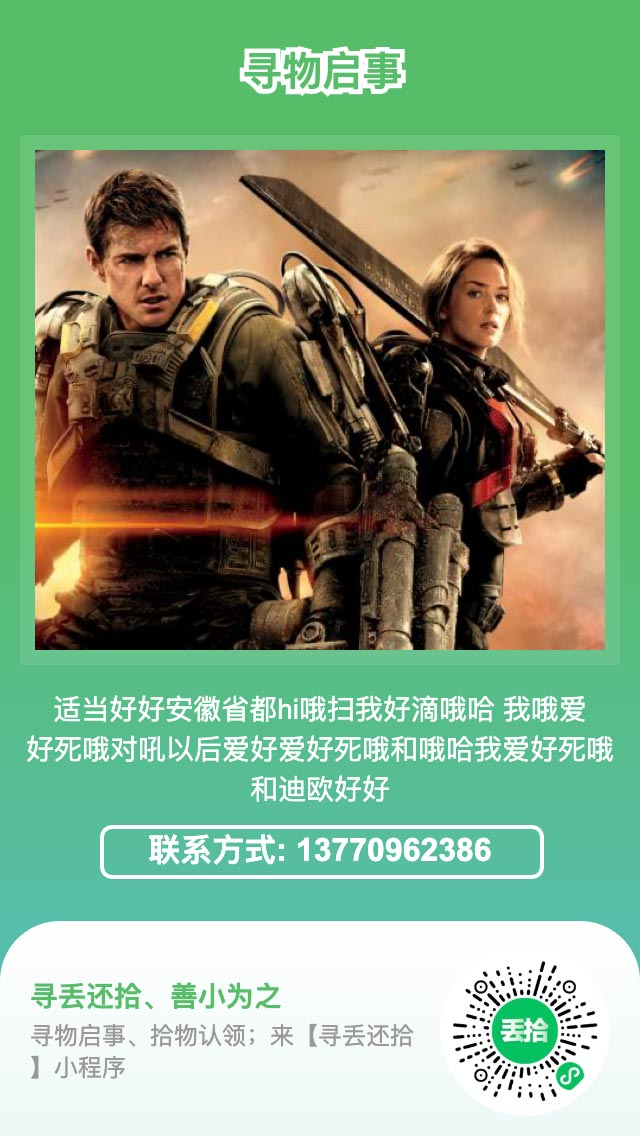
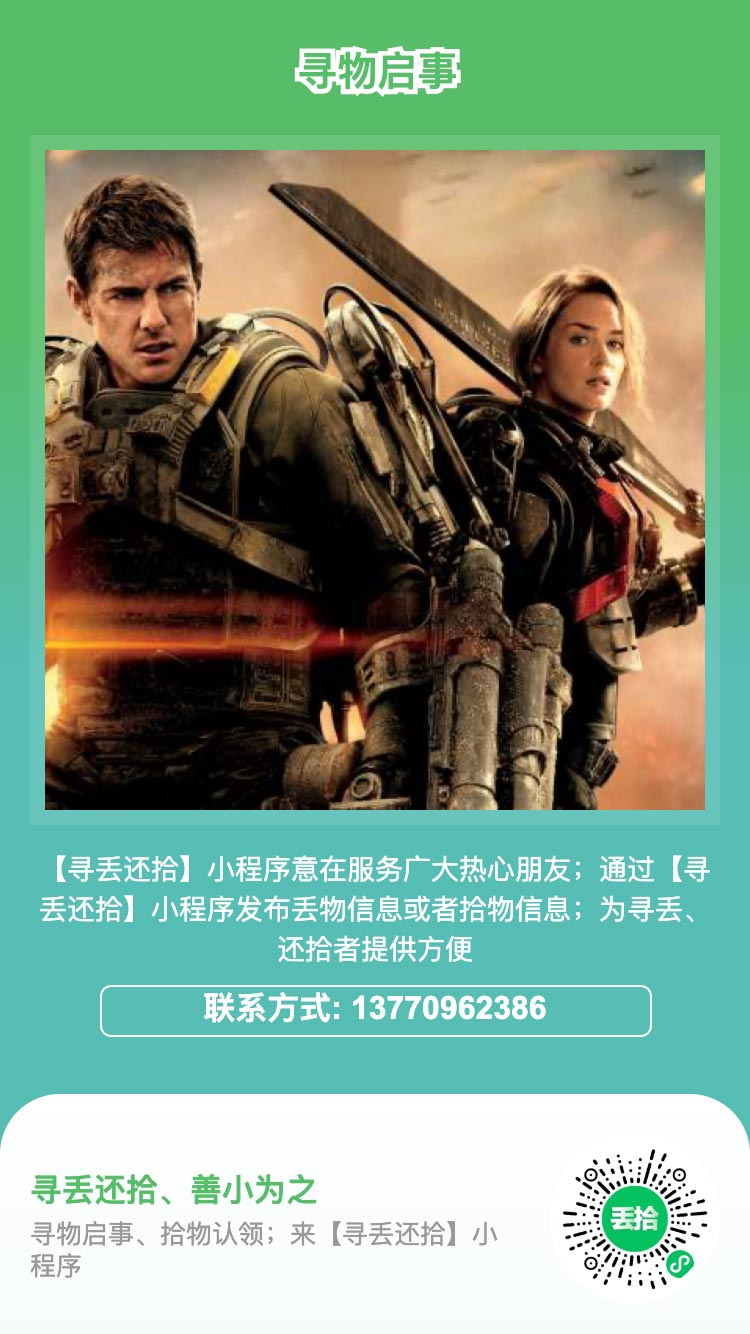
测试

diff --git a/pages/index/index.js b/pages/index/index.js
@@ -33,7 +33,7 @@ Page({
             textAlign: "center"
         }, {
             name: "image",
-            src: "/images/test.png",
+            src: "/images/test.jpg",
             left: 30,
             width: 750 - 90,
             height: 750 - 90,
@@ -116,7 +116,10 @@ Page({
             borderRadius: 200,
         }]
         Poster.create(drawData).then(function (res) {
-            that.setData({url: res})
+            that.setData({url: res});
+            wx.saveImageToPhotosAlbum({
+                filePath: res
+            })
             console.log("绘制成功")
             console.log(res)
         }).catch(function (err) {
